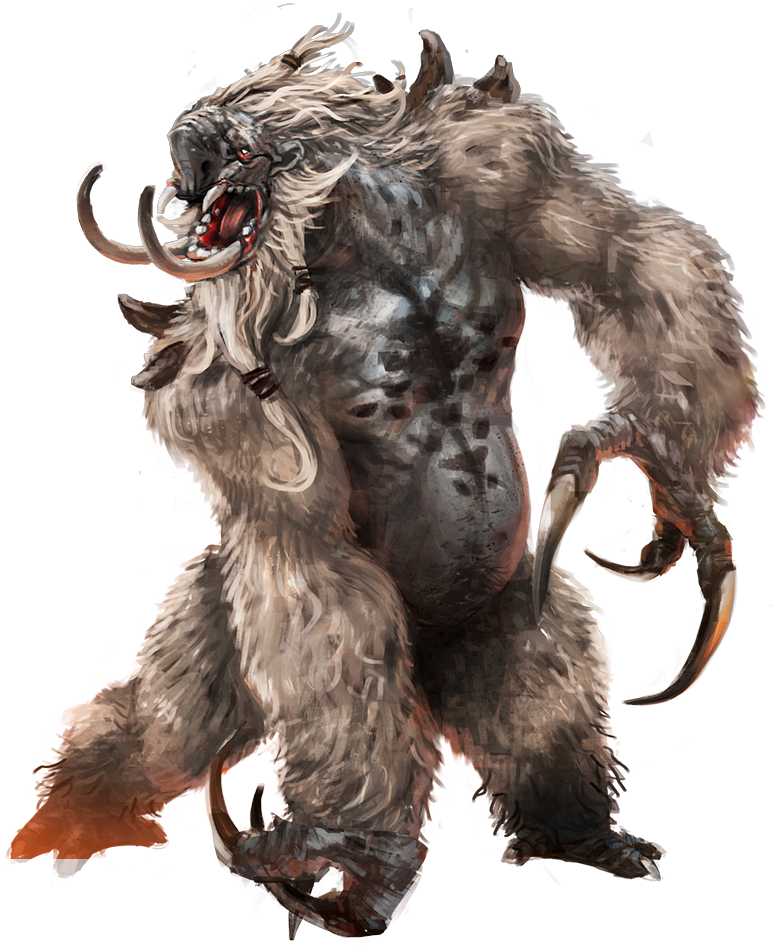
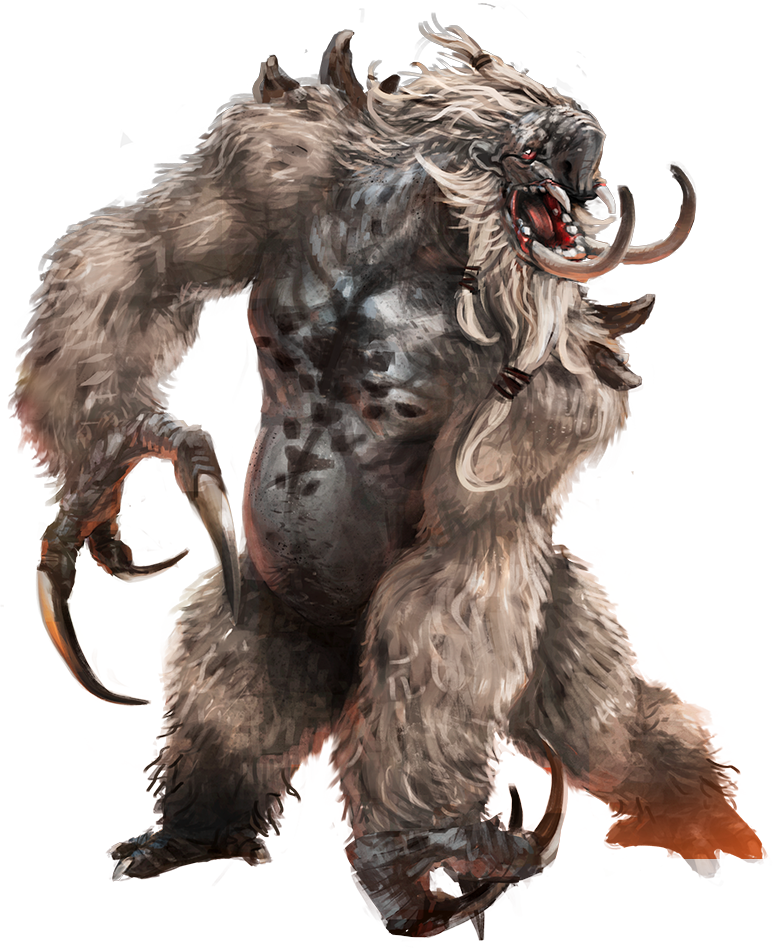
fixed monster orientation

diff --git a/image_config.js b/image_config.js
@@ -2,7 +2,7 @@
 
 // This file is autogenerated from the images located at C:\Users\1337\Documents\Programming\JavaScript\testgames\images by running the file generate_picture_arrays.py
 // Please don't edit this file directly to avoid errors.
-// Last creation date: 2021-01-06-21:00:39
+// Last creation date: 2021-01-28-21:53:31
 
 let IMAGE_CONFIG = {
 	buildings: {
@@ -14,19 +14,19 @@ let IMAGE_CONFIG = {
 		path: "/ghosts/",
 		num: 30,
 		syntax: "{valid_name}{num}.png",
-		valid_names: ['yellow', 'rainbow', 'blue', 'evil', 'purple', 'green', 'orange', 'space', 'pink', 'red'],
+		valid_names: ['orange', 'purple', 'red', 'blue', 'green', 'pink', 'space', 'rainbow', 'evil', 'yellow'],
 	},
 	invaders: {
 		path: "/invaders/",
 		num: 9,
 		syntax: "invader{valid_name}.png",
-		valid_names: ['yellow', 'blue', 'purple', 'white', 'green', 'black', 'orange', 'pink', 'red'],
+		valid_names: ['purple', 'black', 'red', 'blue', 'green', 'white', 'pink', 'orange', 'yellow'],
 	},
 	projectiles: {
 		path: "/projectiles/",
 		num: 52,
 		syntax: "{valid_name}_projectile.png",
-		valid_names: ['krabbypatty', 'water', 'smellysocks', 'greenenergy', 'yarn', 'blueenergy', 'fairy3', 'fire', 'electric', 'fish', 'fairy2', 'ice', 'bullet', 'legored', 'dynamite', 'pear', 'ki', 'rock', 'torch', 'whitemagic', 'tornado', 'zeldabomb', 'arrow', 'onion', 'hairbrush', 'nuke', 'blackenergy', 'spaghetti', 'bluebird', 'fairy1', 'bluebeam', 'grenade', 'mamahaha', 'robin', 'baby_bottle', 'web', 'rainbow', 'pinkenergy', 'batarang', 'blacklego', 'poke', 'magic', 'spongebobdollar', 'stars', 'cashield', 'pixelshot', 'shuriken', 'knife', 'banana', 'apple', 'covid', 'yellowmagic'],
+		valid_names: ['ki', 'fairy3', 'yarn', 'bullet', 'fairy2', 'hairbrush', 'arrow', 'pinkenergy', 'magic', 'apple', 'cashield', 'krabbypatty', 'grenade', 'torch', 'bluebird', 'stars', 'blacklego', 'banana', 'spaghetti', 'fire', 'batarang', 'electric', 'rock', 'knife', 'fairy1', 'blueenergy', 'legored', 'nuke', 'robin', 'web', 'zeldabomb', 'baby_bottle', 'pear', 'mamahaha', 'onion', 'bluebeam', 'smellysocks', 'water', 'poke', 'pixelshot', 'yellowmagic', 'ice', 'tornado', 'spongebobdollar', 'covid', 'greenenergy', 'blackenergy', 'whitemagic', 'rainbow', 'shuriken', 'dynamite', 'fish'],
 	},
 	space_bgs: {
 		path: "/space_bgs/",
@@ -45,7 +45,7 @@ let IMAGE_CONFIG = {
 	},
 	monsters: {
 		path: "/",
-		num: 54,
+		num: 56,
 		syntax: "monster{num}.png",
 	},
 	old_ghosts: {
@@ -57,7 +57,7 @@ let IMAGE_CONFIG = {
 		path: "/weapons/",
 		num: 16,
 		syntax: "{valid_name}.png",
-		valid_names: ['uzi', 'alienblaster', 'rpg', 'm16', 'deagle', 'awm', 'gun', 'revolver', 'glock', 'ak47', 'rpd', 'infinitygauntlet', 'mp5', 'remington', 'p90', 'minigun'],
+		valid_names: ['m16', 'uzi', 'revolver', 'awm', 'infinitygauntlet', 'remington', 'rpd', 'glock', 'ak47', 'mp5', 'rpg', 'minigun', 'alienblaster', 'p90', 'gun', 'deagle'],
 	},
 	cityscapes: {
 		path: "/cityscapes/",
@@ -82,5 +82,3 @@ IMAGE_CONFIG.animals = {
 };
 
 //=== END EXTERNAL PICTURES ===
-
-
